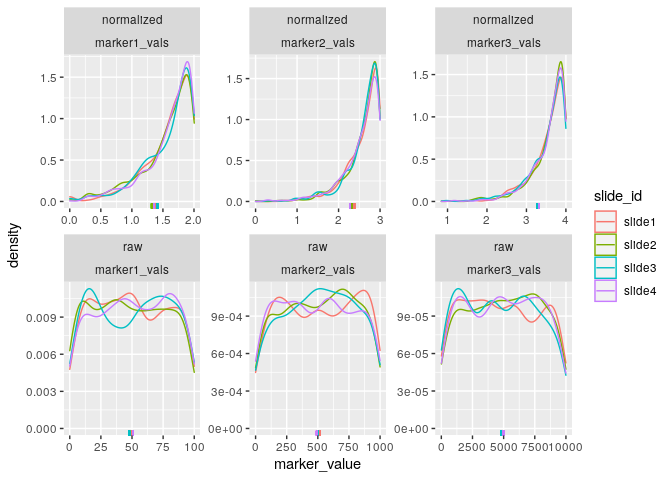
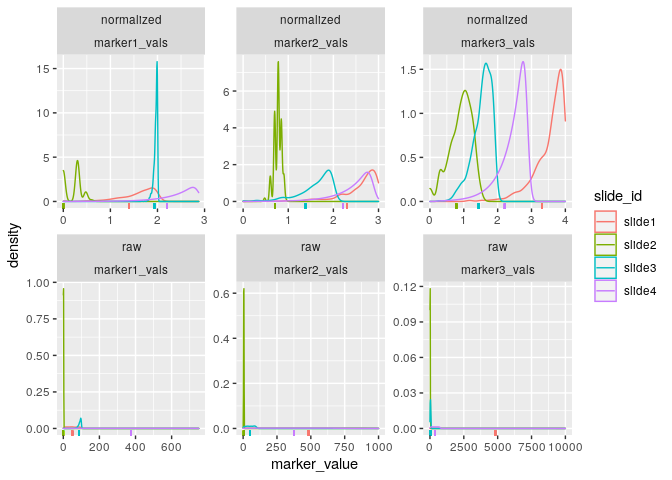
updated readme

diff --git a/README.md b/README.md
@@ -24,18 +24,19 @@ devtools::install_github("ColemanRHarris/mxnorm")
 # Analysis Example
 
 This is a basic example using the `mx_sample` dataset, which is
-simulated data to demonstrate the package’s functionality.
+simulated data to demonstrate the package’s functionality with slide
+effects.
 
 ``` r
 library(mxnorm)
 head(mx_sample)
 #>   slide_id image_id marker1_vals marker2_vals marker3_vals metadata1_vals
-#> 1   slide1   image1           91          274         2465            yes
-#> 2   slide1   image1           94          944         5303            yes
-#> 3   slide1   image1           29          446         2140            yes
-#> 4   slide1   image1           83          542          258            yes
-#> 5   slide1   image1           64          162         3420            yes
-#> 6   slide1   image1           52          693         3941            yes
+#> 1   slide1   image1           91          171         7766            yes
+#> 2   slide1   image1           94          560          267            yes
+#> 3   slide1   image1           29          572          597            yes
+#> 4   slide1   image1           83          922         8551            yes
+#> 5   slide1   image1           64          575         9454            yes
+#> 6   slide1   image1           52          971         9870            yes
 ```
 
 ## `mx_dataset` objects
@@ -60,8 +61,8 @@ str(mx_dataset)
 #>   ..$ slide_id      : chr [1:3000] "slide1" "slide1" "slide1" "slide1" ...
 #>   ..$ image_id      : chr [1:3000] "image1" "image1" "image1" "image1" ...
 #>   ..$ marker1_vals  : num [1:3000] 91 94 29 83 64 52 74 13 66 71 ...
-#>   ..$ marker2_vals  : num [1:3000] 274 944 446 542 162 693 797 774 213 204 ...
-#>   ..$ marker3_vals  : num [1:3000] 2465 5303 2140 258 3420 ...
+#>   ..$ marker2_vals  : num [1:3000] 171 560 572 922 575 971 471 788 499 32 ...
+#>   ..$ marker3_vals  : num [1:3000] 7766 267 597 8551 9454 ...
 #>   ..$ metadata1_vals: chr [1:3000] "yes" "yes" "yes" "yes" ...
 #>  $ slide_id     : chr "slide_id"
 #>  $ image_id     : chr "image_id"
@@ -85,12 +86,12 @@ The `mx_dataset` object has normalized data in the following form:
 ``` r
 head(mx_norm$norm_data)
 #>   slide_id image_id marker1_vals marker2_vals marker3_vals metadata1_vals
-#> 1   slide1   image1     1.963788     2.439333     3.391993            yes
-#> 2   slide1   image1     1.977724     2.975432     3.724604            yes
-#> 3   slide1   image1     1.477121     2.650308     3.330617            yes
-#> 4   slide1   image1     1.924279     2.734800     2.413300            yes
-#> 5   slide1   image1     1.812913     2.212188     3.534153            yes
-#> 6   slide1   image1     1.724276     2.841359     3.595717            yes
+#> 1   slide1   image1     1.963788     2.235528     3.890253            yes
+#> 2   slide1   image1     1.977724     2.748963     2.428135            yes
+#> 3   slide1   image1     1.477121     2.758155     2.776701            yes
+#> 4   slide1   image1     1.924279     2.965202     3.932068            yes
+#> 5   slide1   image1     1.812913     2.760422     3.975662            yes
+#> 6   slide1   image1     1.724276     2.987666     3.994361            yes
 ```
 
 And the `mx_dataset` object now includes the following attributes:
@@ -102,8 +103,8 @@ str(mx_norm)
 #>   ..$ slide_id      : chr [1:3000] "slide1" "slide1" "slide1" "slide1" ...
 #>   ..$ image_id      : chr [1:3000] "image1" "image1" "image1" "image1" ...
 #>   ..$ marker1_vals  : num [1:3000] 91 94 29 83 64 52 74 13 66 71 ...
-#>   ..$ marker2_vals  : num [1:3000] 274 944 446 542 162 693 797 774 213 204 ...
-#>   ..$ marker3_vals  : num [1:3000] 2465 5303 2140 258 3420 ...
+#>   ..$ marker2_vals  : num [1:3000] 171 560 572 922 575 971 471 788 499 32 ...
+#>   ..$ marker3_vals  : num [1:3000] 7766 267 597 8551 9454 ...
 #>   ..$ metadata1_vals: chr [1:3000] "yes" "yes" "yes" "yes" ...
 #>  $ slide_id     : chr "slide_id"
 #>  $ image_id     : chr "image_id"
@@ -113,8 +114,8 @@ str(mx_norm)
 #>   ..$ slide_id      : chr [1:3000] "slide1" "slide1" "slide1" "slide1" ...
 #>   ..$ image_id      : chr [1:3000] "image1" "image1" "image1" "image1" ...
 #>   ..$ marker1_vals  : num [1:3000] 1.96 1.98 1.48 1.92 1.81 ...
-#>   ..$ marker2_vals  : num [1:3000] 2.44 2.98 2.65 2.73 2.21 ...
-#>   ..$ marker3_vals  : num [1:3000] 3.39 3.72 3.33 2.41 3.53 ...
+#>   ..$ marker2_vals  : num [1:3000] 2.24 2.75 2.76 2.97 2.76 ...
+#>   ..$ marker3_vals  : num [1:3000] 3.89 2.43 2.78 3.93 3.98 ...
 #>   ..$ metadata1_vals: chr [1:3000] "yes" "yes" "yes" "yes" ...
 #>  $ scale        : chr "log10"
 #>  $ method       : chr "None"
@@ -139,25 +140,25 @@ the following form:
 ``` r
 head(mx_otsu$otsu_data)
 #>   slide_id       marker table slide_threshold marker_threshold misclass_error
-#> 1   slide1 marker1_vals   raw        50.19531         49.02344    0.008000000
-#> 2   slide2 marker1_vals   raw        47.85156         49.02344    0.013333333
-#> 3   slide3 marker1_vals   raw        47.85156         49.02344    0.018666667
-#> 4   slide4 marker1_vals   raw        50.97656         49.02344    0.008000000
-#> 5   slide1 marker2_vals   raw       515.61719        498.04688    0.018666667
-#> 6   slide2 marker2_vals   raw       493.64648        498.04688    0.001333333
+#> 1   slide1 marker1_vals   raw    5.019531e+01         288.5742      0.4773333
+#> 2   slide2 marker1_vals   raw    5.859375e-03         288.5742      0.6280000
+#> 3   slide3 marker1_vals   raw    8.702734e+01         288.5742      0.7440000
+#> 4   slide4 marker1_vals   raw    3.740371e+02         288.5742      0.1146667
+#> 5   slide1 marker2_vals   raw    4.829395e+02         341.7969      0.1266667
+#> 6   slide2 marker2_vals   raw    4.003906e+00         341.7969      0.6773333
 ```
 
 And the `mx_dataset` object now includes the following attributes:
 
 ``` r
 str(mx_otsu)
-#> List of 10
+#> List of 11
 #>  $ data         :'data.frame':   3000 obs. of  6 variables:
 #>   ..$ slide_id      : chr [1:3000] "slide1" "slide1" "slide1" "slide1" ...
 #>   ..$ image_id      : chr [1:3000] "image1" "image1" "image1" "image1" ...
 #>   ..$ marker1_vals  : num [1:3000] 91 94 29 83 64 52 74 13 66 71 ...
-#>   ..$ marker2_vals  : num [1:3000] 274 944 446 542 162 693 797 774 213 204 ...
-#>   ..$ marker3_vals  : num [1:3000] 2465 5303 2140 258 3420 ...
+#>   ..$ marker2_vals  : num [1:3000] 171 560 572 922 575 971 471 788 499 32 ...
+#>   ..$ marker3_vals  : num [1:3000] 7766 267 597 8551 9454 ...
 #>   ..$ metadata1_vals: chr [1:3000] "yes" "yes" "yes" "yes" ...
 #>  $ slide_id     : chr "slide_id"
 #>  $ image_id     : chr "image_id"
@@ -167,8 +168,8 @@ str(mx_otsu)
 #>   ..$ slide_id      : chr [1:3000] "slide1" "slide1" "slide1" "slide1" ...
 #>   ..$ image_id      : chr [1:3000] "image1" "image1" "image1" "image1" ...
 #>   ..$ marker1_vals  : num [1:3000] 1.96 1.98 1.48 1.92 1.81 ...
-#>   ..$ marker2_vals  : num [1:3000] 2.44 2.98 2.65 2.73 2.21 ...
-#>   ..$ marker3_vals  : num [1:3000] 3.39 3.72 3.33 2.41 3.53 ...
+#>   ..$ marker2_vals  : num [1:3000] 2.24 2.75 2.76 2.97 2.76 ...
+#>   ..$ marker3_vals  : num [1:3000] 3.89 2.43 2.78 3.93 3.98 ...
 #>   ..$ metadata1_vals: chr [1:3000] "yes" "yes" "yes" "yes" ...
 #>  $ scale        : chr "log10"
 #>  $ method       : chr "None"
@@ -176,10 +177,11 @@ str(mx_otsu)
 #>   ..$ slide_id        : chr [1:24] "slide1" "slide2" "slide3" "slide4" ...
 #>   ..$ marker          : chr [1:24] "marker1_vals" "marker1_vals" "marker1_vals" "marker1_vals" ...
 #>   ..$ table           : chr [1:24] "raw" "raw" "raw" "raw" ...
-#>   ..$ slide_threshold : num [1:24] 50.2 47.9 47.9 51 515.6 ...
-#>   ..$ marker_threshold: num [1:24] 49 49 49 49 498 ...
-#>   ..$ misclass_error  : num [1:24] 0.008 0.0133 0.0187 0.008 0.0187 ...
+#>   ..$ slide_threshold : num [1:24] 5.02e+01 5.86e-03 8.70e+01 3.74e+02 4.83e+02 ...
+#>   ..$ marker_threshold: num [1:24] 289 289 289 289 342 ...
+#>   ..$ misclass_error  : num [1:24] 0.477 0.628 0.744 0.115 0.127 ...
 #>  $ otsu_table   : chr "both"
+#>  $ threshold    : chr "otsu"
 #>  - attr(*, "class")= chr "mx_dataset"
 ```
 
@@ -203,33 +205,33 @@ form:
 
 ``` r
 head(mx_umap$umap_data)
-#>      marker1_vals marker2_vals marker3_vals metadata1_vals table         U1
-#> 636            71          217            6            yes   raw -12.443951
-#> 206            44          156         7975            yes   raw   7.161827
-#> 852            76          764         4284            yes   raw  -3.965278
-#> 1598            2          780         1866             no   raw  -7.380946
-#> 292            73          399         8088            yes   raw   8.084841
-#> 1773           59          922         9416             no   raw  11.449562
+#>      marker1_vals marker2_vals marker3_vals metadata1_vals table          U1
+#> 1717           98           68           74             no   raw  -5.8276359
+#> 2279           29           29           29             no   raw  -0.6148791
+#> 335            68          146         7149            yes   raw   7.3799556
+#> 1055            0            6            6            yes   raw -16.3709385
+#> 251            33          905         9365            yes   raw   8.8375052
+#> 1088            0            4            4            yes   raw  -3.3954894
 #>              U2
-#> 636   11.838082
-#> 206    3.375274
-#> 852  -11.447896
-#> 1598   2.933889
-#> 292    4.034436
-#> 1773  11.172929
+#> 1717  -2.776944
+#> 2279   4.420231
+#> 335  -17.569706
+#> 1055   5.339620
+#> 251  -22.088848
+#> 1088  17.994051
 ```
 
 And the `mx_dataset` object now includes the following attributes:
 
 ``` r
 str(mx_umap)
-#> List of 12
+#> List of 13
 #>  $ data         :'data.frame':   3000 obs. of  6 variables:
 #>   ..$ slide_id      : chr [1:3000] "slide1" "slide1" "slide1" "slide1" ...
 #>   ..$ image_id      : chr [1:3000] "image1" "image1" "image1" "image1" ...
 #>   ..$ marker1_vals  : num [1:3000] 91 94 29 83 64 52 74 13 66 71 ...
-#>   ..$ marker2_vals  : num [1:3000] 274 944 446 542 162 693 797 774 213 204 ...
-#>   ..$ marker3_vals  : num [1:3000] 2465 5303 2140 258 3420 ...
+#>   ..$ marker2_vals  : num [1:3000] 171 560 572 922 575 971 471 788 499 32 ...
+#>   ..$ marker3_vals  : num [1:3000] 7766 267 597 8551 9454 ...
 #>   ..$ metadata1_vals: chr [1:3000] "yes" "yes" "yes" "yes" ...
 #>  $ slide_id     : chr "slide_id"
 #>  $ image_id     : chr "image_id"
@@ -239,8 +241,8 @@ str(mx_umap)
 #>   ..$ slide_id      : chr [1:3000] "slide1" "slide1" "slide1" "slide1" ...
 #>   ..$ image_id      : chr [1:3000] "image1" "image1" "image1" "image1" ...
 #>   ..$ marker1_vals  : num [1:3000] 1.96 1.98 1.48 1.92 1.81 ...
-#>   ..$ marker2_vals  : num [1:3000] 2.44 2.98 2.65 2.73 2.21 ...
-#>   ..$ marker3_vals  : num [1:3000] 3.39 3.72 3.33 2.41 3.53 ...
+#>   ..$ marker2_vals  : num [1:3000] 2.24 2.75 2.76 2.97 2.76 ...
+#>   ..$ marker3_vals  : num [1:3000] 3.89 2.43 2.78 3.93 3.98 ...
 #>   ..$ metadata1_vals: chr [1:3000] "yes" "yes" "yes" "yes" ...
 #>  $ scale        : chr "log10"
 #>  $ method       : chr "None"
@@ -248,18 +250,19 @@ str(mx_umap)
 #>   ..$ slide_id        : chr [1:24] "slide1" "slide2" "slide3" "slide4" ...
 #>   ..$ marker          : chr [1:24] "marker1_vals" "marker1_vals" "marker1_vals" "marker1_vals" ...
 #>   ..$ table           : chr [1:24] "raw" "raw" "raw" "raw" ...
-#>   ..$ slide_threshold : num [1:24] 50.2 47.9 47.9 51 515.6 ...
-#>   ..$ marker_threshold: num [1:24] 49 49 49 49 498 ...
-#>   ..$ misclass_error  : num [1:24] 0.008 0.0133 0.0187 0.008 0.0187 ...
+#>   ..$ slide_threshold : num [1:24] 5.02e+01 5.86e-03 8.70e+01 3.74e+02 4.83e+02 ...
+#>   ..$ marker_threshold: num [1:24] 289 289 289 289 342 ...
+#>   ..$ misclass_error  : num [1:24] 0.477 0.628 0.744 0.115 0.127 ...
 #>  $ otsu_table   : chr "both"
+#>  $ threshold    : chr "otsu"
 #>  $ umap_data    :'data.frame':   4800 obs. of  7 variables:
-#>   ..$ marker1_vals  : num [1:4800] 71 44 76 2 73 59 9 50 76 87 ...
-#>   ..$ marker2_vals  : num [1:4800] 217 156 764 780 399 922 865 689 589 905 ...
-#>   ..$ marker3_vals  : num [1:4800] 6 7975 4284 1866 8088 ...
-#>   ..$ metadata1_vals: chr [1:4800] "yes" "yes" "yes" "no" ...
+#>   ..$ marker1_vals  : num [1:4800] 98 29 68 0 33 0 300 8 70 96 ...
+#>   ..$ marker2_vals  : num [1:4800] 68 29 146 6 905 4 300 644 160 46 ...
+#>   ..$ marker3_vals  : num [1:4800] 74 29 7149 6 9365 ...
+#>   ..$ metadata1_vals: chr [1:4800] "no" "no" "yes" "yes" ...
 #>   ..$ table         : chr [1:4800] "raw" "raw" "raw" "raw" ...
-#>   ..$ U1            : num [1:4800] -12.44 7.16 -3.97 -7.38 8.08 ...
-#>   ..$ U2            : num [1:4800] 11.84 3.38 -11.45 2.93 4.03 ...
+#>   ..$ U1            : num [1:4800] -5.828 -0.615 7.38 -16.371 8.838 ...
+#>   ..$ U2            : num [1:4800] -2.78 4.42 -17.57 5.34 -22.09 ...
 #>  $ umap_table   : chr "both"
 #>  - attr(*, "class")= chr "mx_dataset"
 ```
@@ -281,26 +284,26 @@ form:
 
 ``` r
 head(mx_var$var_data)
-#>     proportions    level       marker table
-#> 1: 0.0000000000    slide marker1_vals   raw
-#> 2: 1.0000000000 residual marker1_vals   raw
-#> 3: 0.0000000000    slide marker2_vals   raw
-#> 4: 1.0000000000 residual marker2_vals   raw
-#> 5: 0.0004371019    slide marker3_vals   raw
-#> 6: 0.9995628981 residual marker3_vals   raw
+#>    proportions    level       marker table
+#> 1:   0.6349562    slide marker1_vals   raw
+#> 2:   0.3650438 residual marker1_vals   raw
+#> 3:   0.7357441    slide marker2_vals   raw
+#> 4:   0.2642559 residual marker2_vals   raw
+#> 5:   0.7338357    slide marker3_vals   raw
+#> 6:   0.2661643 residual marker3_vals   raw
 ```
 
 And the `mx_dataset` object now includes the following attributes:
 
 ``` r
 str(mx_var)
-#> List of 13
+#> List of 14
 #>  $ data         :'data.frame':   3000 obs. of  6 variables:
 #>   ..$ slide_id      : chr [1:3000] "slide1" "slide1" "slide1" "slide1" ...
 #>   ..$ image_id      : chr [1:3000] "image1" "image1" "image1" "image1" ...
 #>   ..$ marker1_vals  : num [1:3000] 91 94 29 83 64 52 74 13 66 71 ...
-#>   ..$ marker2_vals  : num [1:3000] 274 944 446 542 162 693 797 774 213 204 ...
-#>   ..$ marker3_vals  : num [1:3000] 2465 5303 2140 258 3420 ...
+#>   ..$ marker2_vals  : num [1:3000] 171 560 572 922 575 971 471 788 499 32 ...
+#>   ..$ marker3_vals  : num [1:3000] 7766 267 597 8551 9454 ...
 #>   ..$ metadata1_vals: chr [1:3000] "yes" "yes" "yes" "yes" ...
 #>  $ slide_id     : chr "slide_id"
 #>  $ image_id     : chr "image_id"
@@ -310,8 +313,8 @@ str(mx_var)
 #>   ..$ slide_id      : chr [1:3000] "slide1" "slide1" "slide1" "slide1" ...
 #>   ..$ image_id      : chr [1:3000] "image1" "image1" "image1" "image1" ...
 #>   ..$ marker1_vals  : num [1:3000] 1.96 1.98 1.48 1.92 1.81 ...
-#>   ..$ marker2_vals  : num [1:3000] 2.44 2.98 2.65 2.73 2.21 ...
-#>   ..$ marker3_vals  : num [1:3000] 3.39 3.72 3.33 2.41 3.53 ...
+#>   ..$ marker2_vals  : num [1:3000] 2.24 2.75 2.76 2.97 2.76 ...
+#>   ..$ marker3_vals  : num [1:3000] 3.89 2.43 2.78 3.93 3.98 ...
 #>   ..$ metadata1_vals: chr [1:3000] "yes" "yes" "yes" "yes" ...
 #>  $ scale        : chr "log10"
 #>  $ method       : chr "None"
@@ -319,21 +322,22 @@ str(mx_var)
 #>   ..$ slide_id        : chr [1:24] "slide1" "slide2" "slide3" "slide4" ...
 #>   ..$ marker          : chr [1:24] "marker1_vals" "marker1_vals" "marker1_vals" "marker1_vals" ...
 #>   ..$ table           : chr [1:24] "raw" "raw" "raw" "raw" ...
-#>   ..$ slide_threshold : num [1:24] 50.2 47.9 47.9 51 515.6 ...
-#>   ..$ marker_threshold: num [1:24] 49 49 49 49 498 ...
-#>   ..$ misclass_error  : num [1:24] 0.008 0.0133 0.0187 0.008 0.0187 ...
+#>   ..$ slide_threshold : num [1:24] 5.02e+01 5.86e-03 8.70e+01 3.74e+02 4.83e+02 ...
+#>   ..$ marker_threshold: num [1:24] 289 289 289 289 342 ...
+#>   ..$ misclass_error  : num [1:24] 0.477 0.628 0.744 0.115 0.127 ...
 #>  $ otsu_table   : chr "both"
+#>  $ threshold    : chr "otsu"
 #>  $ umap_data    :'data.frame':   4800 obs. of  7 variables:
-#>   ..$ marker1_vals  : num [1:4800] 71 44 76 2 73 59 9 50 76 87 ...
-#>   ..$ marker2_vals  : num [1:4800] 217 156 764 780 399 922 865 689 589 905 ...
-#>   ..$ marker3_vals  : num [1:4800] 6 7975 4284 1866 8088 ...
-#>   ..$ metadata1_vals: chr [1:4800] "yes" "yes" "yes" "no" ...
+#>   ..$ marker1_vals  : num [1:4800] 98 29 68 0 33 0 300 8 70 96 ...
+#>   ..$ marker2_vals  : num [1:4800] 68 29 146 6 905 4 300 644 160 46 ...
+#>   ..$ marker3_vals  : num [1:4800] 74 29 7149 6 9365 ...
+#>   ..$ metadata1_vals: chr [1:4800] "no" "no" "yes" "yes" ...
 #>   ..$ table         : chr [1:4800] "raw" "raw" "raw" "raw" ...
-#>   ..$ U1            : num [1:4800] -12.44 7.16 -3.97 -7.38 8.08 ...
-#>   ..$ U2            : num [1:4800] 11.84 3.38 -11.45 2.93 4.03 ...
+#>   ..$ U1            : num [1:4800] -5.828 -0.615 7.38 -16.371 8.838 ...
+#>   ..$ U2            : num [1:4800] -2.78 4.42 -17.57 5.34 -22.09 ...
 #>  $ umap_table   : chr "both"
 #>  $ var_data     :Classes 'data.table' and 'data.frame':  12 obs. of  4 variables:
-#>   ..$ proportions: num [1:12] 0 1 0 1 0.000437 ...
+#>   ..$ proportions: num [1:12] 0.635 0.365 0.736 0.264 0.734 ...
 #>   ..$ level      : chr [1:12] "slide" "residual" "slide" "residual" ...
 #>   ..$ marker     : chr [1:12] "marker1_vals" "marker1_vals" "marker2_vals" "marker2_vals" ...
 #>   ..$ table      : chr [1:12] "raw" "raw" "raw" "raw" ...
